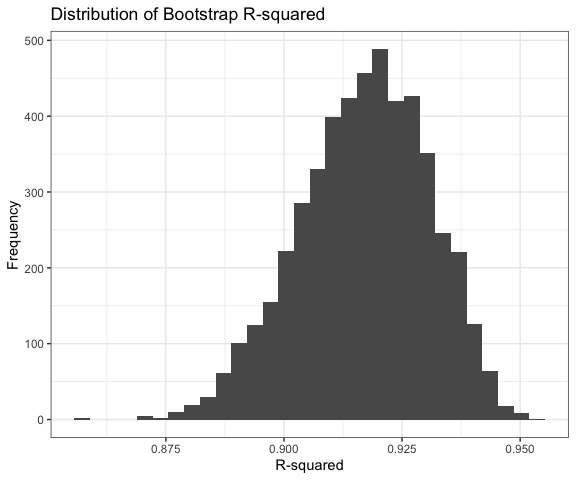
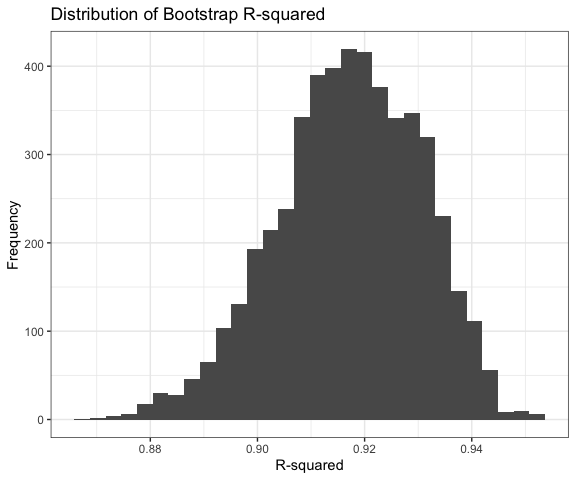
Add comment about model VIF and clean up outputs of stepAIC and kable

diff --git a/p8105_hw6_drl2168.md b/p8105_hw6_drl2168.md
@@ -1,7 +1,7 @@
 Homework 6
 ================
 Derek Lamb
-2023-11-25
+2023-11-27
 
 ### Load packages
 
@@ -217,11 +217,11 @@ df_weather |>
 ```
 
     ## # A tibble: 3 × 5
-    ##   term          estimate std.error statistic   p.value
-    ##   <chr>            <dbl>     <dbl>     <dbl>     <dbl>
-    ## 1 (Intercept) 7.74         0.220    35.1     1.25e-118
-    ## 2 tmin        1.02         0.0155   65.9     1.34e-203
-    ## 3 prcp        0.00000222   0.00201   0.00111 9.99e-  1
+    ##   term        estimate std.error statistic   p.value
+    ##   <chr>          <dbl>     <dbl>     <dbl>     <dbl>
+    ## 1 (Intercept)  8.18      0.226      36.3   1.24e-122
+    ## 2 tmin         1.00      0.0152     66.0   7.06e-204
+    ## 3 prcp        -0.00176   0.00183    -0.965 3.35e-  1
 
 I created the dataframe I needed with 5000 samples of the weather
 dataframe.
@@ -317,10 +317,13 @@ df_bootstrap |>
 
 | Parameter | CI Lower Bound | CI Upper Bound |
 |:----------|---------------:|---------------:|
-| log_beta  |         -8.511 |         -4.593 |
-| r.squared |          0.889 |          0.941 |
+| log_beta  |         -8.725 |          -4.61 |
+| r.squared |          0.889 |           0.94 |
 
 # Problem 3
+
+I will import the birthweight data and convert the numeric indicators to
+character indicators, and then recode them as factor variables.
 
 ``` r
 df_bwt = 
@@ -369,225 +372,63 @@ base_model =
 
 bwt_model = 
   base_model |> 
-  MASS::stepAIC(direction = "both")
+  MASS::stepAIC(direction = "both", trace = 0)
 ```
-
-    ## Start:  AIC=48717.83
-    ## bwt ~ babysex + bhead + blength + delwt + fincome + frace + gaweeks + 
-    ##     malform + menarche + mheight + momage + mrace + parity + 
-    ##     pnumlbw + pnumsga + ppbmi + ppwt + smoken + wtgain
-    ## 
-    ## 
-    ## Step:  AIC=48717.83
-    ## bwt ~ babysex + bhead + blength + delwt + fincome + frace + gaweeks + 
-    ##     malform + menarche + mheight + momage + mrace + parity + 
-    ##     pnumlbw + pnumsga + ppbmi + ppwt + smoken
-    ## 
-    ## 
-    ## Step:  AIC=48717.83
-    ## bwt ~ babysex + bhead + blength + delwt + fincome + frace + gaweeks + 
-    ##     malform + menarche + mheight + momage + mrace + parity + 
-    ##     pnumlbw + ppbmi + ppwt + smoken
-    ## 
-    ## 
-    ## Step:  AIC=48717.83
-    ## bwt ~ babysex + bhead + blength + delwt + fincome + frace + gaweeks + 
-    ##     malform + menarche + mheight + momage + mrace + parity + 
-    ##     ppbmi + ppwt + smoken
-    ## 
-    ##            Df Sum of Sq       RSS   AIC
-    ## - frace     4    124365 320848704 48712
-    ## - malform   1      1419 320725757 48716
-    ## - ppbmi     1      6346 320730684 48716
-    ## - momage    1     28661 320752999 48716
-    ## - mheight   1     66886 320791224 48717
-    ## - menarche  1    111679 320836018 48717
-    ## - ppwt      1    131132 320855470 48718
-    ## <none>                  320724338 48718
-    ## - fincome   1    193454 320917792 48718
-    ## - parity    1    413584 321137922 48721
-    ## - mrace     3    868321 321592659 48724
-    ## - babysex   1    853796 321578134 48727
-    ## - gaweeks   1   4611823 325336161 48778
-    ## - smoken    1   5076393 325800732 48784
-    ## - delwt     1   8008891 328733230 48823
-    ## - blength   1 102050296 422774634 49915
-    ## - bhead     1 106535716 427260054 49961
-    ## 
-    ## Step:  AIC=48711.51
-    ## bwt ~ babysex + bhead + blength + delwt + fincome + gaweeks + 
-    ##     malform + menarche + mheight + momage + mrace + parity + 
-    ##     ppbmi + ppwt + smoken
-    ## 
-    ##            Df Sum of Sq       RSS   AIC
-    ## - malform   1      1447 320850151 48710
-    ## - ppbmi     1      6975 320855679 48710
-    ## - momage    1     28379 320877083 48710
-    ## - mheight   1     69502 320918206 48710
-    ## - menarche  1    115708 320964411 48711
-    ## - ppwt      1    133961 320982665 48711
-    ## <none>                  320848704 48712
-    ## - fincome   1    194405 321043108 48712
-    ## - parity    1    414687 321263390 48715
-    ## + frace     4    124365 320724338 48718
-    ## - babysex   1    852133 321700837 48721
-    ## - gaweeks   1   4625208 325473911 48772
-    ## - smoken    1   5036389 325885093 48777
-    ## - delwt     1   8013099 328861802 48817
-    ## - mrace     3  13540415 334389119 48885
-    ## - blength   1 101995688 422844392 49908
-    ## - bhead     1 106662962 427511666 49956
-    ## 
-    ## Step:  AIC=48709.53
-    ## bwt ~ babysex + bhead + blength + delwt + fincome + gaweeks + 
-    ##     menarche + mheight + momage + mrace + parity + ppbmi + ppwt + 
-    ##     smoken
-    ## 
-    ##            Df Sum of Sq       RSS   AIC
-    ## - ppbmi     1      6928 320857079 48708
-    ## - momage    1     28660 320878811 48708
-    ## - mheight   1     69320 320919470 48708
-    ## - menarche  1    116027 320966177 48709
-    ## - ppwt      1    133894 320984044 48709
-    ## <none>                  320850151 48710
-    ## - fincome   1    193784 321043934 48710
-    ## + malform   1      1447 320848704 48712
-    ## - parity    1    414482 321264633 48713
-    ## + frace     4    124393 320725757 48716
-    ## - babysex   1    851279 321701430 48719
-    ## - gaweeks   1   4624003 325474154 48770
-    ## - smoken    1   5035195 325885346 48775
-    ## - delwt     1   8029079 328879230 48815
-    ## - mrace     3  13553320 334403471 48883
-    ## - blength   1 102009225 422859375 49906
-    ## - bhead     1 106675331 427525481 49954
-    ## 
-    ## Step:  AIC=48707.63
-    ## bwt ~ babysex + bhead + blength + delwt + fincome + gaweeks + 
-    ##     menarche + mheight + momage + mrace + parity + ppwt + smoken
-    ## 
-    ##            Df Sum of Sq       RSS   AIC
-    ## - momage    1     29211 320886290 48706
-    ## - menarche  1    117635 320974714 48707
-    ## <none>                  320857079 48708
-    ## - fincome   1    195199 321052278 48708
-    ## + ppbmi     1      6928 320850151 48710
-    ## + malform   1      1400 320855679 48710
-    ## - parity    1    412984 321270064 48711
-    ## + frace     4    125020 320732060 48714
-    ## - babysex   1    850020 321707099 48717
-    ## - mheight   1   1078673 321935752 48720
-    ## - ppwt      1   2934023 323791103 48745
-    ## - gaweeks   1   4621504 325478583 48768
-    ## - smoken    1   5039368 325896447 48773
-    ## - delwt     1   8024939 328882018 48813
-    ## - mrace     3  13551444 334408523 48881
-    ## - blength   1 102018559 422875638 49904
-    ## - bhead     1 106821342 427678421 49953
-    ## 
-    ## Step:  AIC=48706.02
-    ## bwt ~ babysex + bhead + blength + delwt + fincome + gaweeks + 
-    ##     menarche + mheight + mrace + parity + ppwt + smoken
-    ## 
-    ##            Df Sum of Sq       RSS   AIC
-    ## - menarche  1    100121 320986412 48705
-    ## <none>                  320886290 48706
-    ## - fincome   1    240800 321127090 48707
-    ## + momage    1     29211 320857079 48708
-    ## + ppbmi     1      7479 320878811 48708
-    ## + malform   1      1678 320884612 48708
-    ## - parity    1    431433 321317724 48710
-    ## + frace     4    124743 320761547 48712
-    ## - babysex   1    841278 321727568 48715
-    ## - mheight   1   1076739 321963029 48719
-    ## - ppwt      1   2913653 323799943 48743
-    ## - gaweeks   1   4676469 325562760 48767
-    ## - smoken    1   5045104 325931394 48772
-    ## - delwt     1   8000672 328886962 48811
-    ## - mrace     3  14667730 335554021 48894
-    ## - blength   1 101990556 422876847 49902
-    ## - bhead     1 106864308 427750598 49952
-    ## 
-    ## Step:  AIC=48705.38
-    ## bwt ~ babysex + bhead + blength + delwt + fincome + gaweeks + 
-    ##     mheight + mrace + parity + ppwt + smoken
-    ## 
-    ##            Df Sum of Sq       RSS   AIC
-    ## <none>                  320986412 48705
-    ## + menarche  1    100121 320886290 48706
-    ## - fincome   1    245637 321232048 48707
-    ## + momage    1     11698 320974714 48707
-    ## + ppbmi     1      8823 320977589 48707
-    ## + malform   1      1884 320984528 48707
-    ## - parity    1    422770 321409181 48709
-    ## + frace     4    128726 320857686 48712
-    ## - babysex   1    846134 321832545 48715
-    ## - mheight   1   1012240 321998651 48717
-    ## - ppwt      1   2907049 323893461 48743
-    ## - gaweeks   1   4662501 325648912 48766
-    ## - smoken    1   5073849 326060260 48771
-    ## - delwt     1   8137459 329123871 48812
-    ## - mrace     3  14683609 335670021 48894
-    ## - blength   1 102191779 423178191 49903
-    ## - bhead     1 106779754 427766166 49950
 
 ``` r
 bwt_model |> 
-  anova()
+  anova() |> 
+  knitr::kable(digits = 3)
 ```
 
-    ## Analysis of Variance Table
-    ## 
-    ## Response: bwt
-    ##             Df    Sum Sq   Mean Sq   F value    Pr(>F)    
-    ## babysex      1   8547634   8547634  115.2515 < 2.2e-16 ***
-    ## bhead        1 628838120 628838120 8478.8991 < 2.2e-16 ***
-    ## blength      1 140213755 140213755 1890.5633 < 2.2e-16 ***
-    ## delwt        1   8647158   8647158  116.5934 < 2.2e-16 ***
-    ## fincome      1   4845845   4845845   65.3386 8.111e-16 ***
-    ## gaweeks      1   5936110   5936110   80.0392 < 2.2e-16 ***
-    ## mheight      1    883287    883287   11.9097 0.0005638 ***
-    ## mrace        3  11463486   3821162   51.5224 < 2.2e-16 ***
-    ## parity       1    481225    481225    6.4886 0.0108914 *  
-    ## ppwt         1   2735314   2735314   36.8814 1.363e-09 ***
-    ## smoken       1   5073849   5073849   68.4129 < 2.2e-16 ***
-    ## Residuals 4328 320986412     74165                        
-    ## ---
-    ## Signif. codes:  0 '***' 0.001 '**' 0.01 '*' 0.05 '.' 0.1 ' ' 1
+|           |   Df |       Sum Sq |       Mean Sq |  F value | Pr(\>F) |
+|:----------|-----:|-------------:|--------------:|---------:|--------:|
+| babysex   |    1 |    8547633.5 |    8547633.55 |  115.251 |   0.000 |
+| bhead     |    1 | 628838119\.6 | 628838119\.63 | 8478.899 |   0.000 |
+| blength   |    1 | 140213755\.0 | 140213755\.01 | 1890.563 |   0.000 |
+| delwt     |    1 |    8647157.7 |    8647157.70 |  116.593 |   0.000 |
+| fincome   |    1 |    4845845.1 |    4845845.06 |   65.339 |   0.000 |
+| gaweeks   |    1 |    5936110.4 |    5936110.42 |   80.039 |   0.000 |
+| mheight   |    1 |     883286.8 |     883286.83 |   11.910 |   0.001 |
+| mrace     |    3 |   11463486.3 |    3821162.11 |   51.522 |   0.000 |
+| parity    |    1 |     481225.0 |     481224.98 |    6.489 |   0.011 |
+| ppwt      |    1 |    2735313.7 |    2735313.67 |   36.881 |   0.000 |
+| smoken    |    1 |    5073848.7 |    5073848.67 |   68.413 |   0.000 |
+| Residuals | 4328 | 320986411\.6 |      74165.07 |       NA |      NA |
 
 ``` r
 bwt_model |> 
   tidy() |> 
-  knitr::kable()
+  knitr::kable(digits = 3)
 ```
 
-| term              |      estimate |   std.error |   statistic |   p.value |
-|:------------------|--------------:|------------:|------------:|----------:|
-| (Intercept)       | -6145.1506698 | 141.9496468 | -43.2910599 | 0.0000000 |
-| babysexmale       |   -28.5580171 |   8.4548958 |  -3.3776900 | 0.0007374 |
-| bhead             |   130.7770408 |   3.4465672 |  37.9441440 | 0.0000000 |
-| blength           |    74.9471109 |   2.0190479 |  37.1200270 | 0.0000000 |
-| delwt             |     4.1067316 |   0.3920592 |  10.4747754 | 0.0000000 |
-| fincome           |     0.3180229 |   0.1747477 |   1.8198980 | 0.0688436 |
-| gaweeks           |    11.5924873 |   1.4620657 |   7.9288417 | 0.0000000 |
-| mheight           |     6.5940377 |   1.7848817 |   3.6943835 | 0.0002231 |
-| mraceBlack        |   -63.9057046 |  42.3662612 |  -1.5084103 | 0.1315225 |
-| mracePuerto Rican |   -25.7913672 |  45.3501537 |  -0.5687162 | 0.5695783 |
-| mraceWhite        |    74.8867755 |  42.3146313 |   1.7697608 | 0.0768374 |
-| parity            |    96.3046933 |  40.3362158 |   2.3875490 | 0.0170038 |
-| ppwt              |    -2.6755853 |   0.4273585 |  -6.2607517 | 0.0000000 |
-| smoken            |    -4.8434197 |   0.5855757 |  -8.2712102 | 0.0000000 |
+| term              |  estimate | std.error | statistic | p.value |
+|:------------------|----------:|----------:|----------:|--------:|
+| (Intercept)       | -6145.151 |   141.950 |   -43.291 |   0.000 |
+| babysexmale       |   -28.558 |     8.455 |    -3.378 |   0.001 |
+| bhead             |   130.777 |     3.447 |    37.944 |   0.000 |
+| blength           |    74.947 |     2.019 |    37.120 |   0.000 |
+| delwt             |     4.107 |     0.392 |    10.475 |   0.000 |
+| fincome           |     0.318 |     0.175 |     1.820 |   0.069 |
+| gaweeks           |    11.592 |     1.462 |     7.929 |   0.000 |
+| mheight           |     6.594 |     1.785 |     3.694 |   0.000 |
+| mraceBlack        |   -63.906 |    42.366 |    -1.508 |   0.132 |
+| mracePuerto Rican |   -25.791 |    45.350 |    -0.569 |   0.570 |
+| mraceWhite        |    74.887 |    42.315 |     1.770 |   0.077 |
+| parity            |    96.305 |    40.336 |     2.388 |   0.017 |
+| ppwt              |    -2.676 |     0.427 |    -6.261 |   0.000 |
+| smoken            |    -4.843 |     0.586 |    -8.271 |   0.000 |
 
 ``` r
 bwt_model |> 
   glance() |> 
   select(-c(sigma, logLik, BIC, deviance)) |> 
-  knitr::kable()
+  knitr::kable( digits = 3)
 ```
 
 | r.squared | adj.r.squared | statistic | p.value |  df |      AIC | df.residual | nobs |
 |----------:|--------------:|----------:|--------:|----:|---------:|------------:|-----:|
-| 0.7180997 |     0.7172529 |  848.0727 |       0 |  13 | 61029.44 |        4328 | 4342 |
+|     0.718 |         0.717 |   848.073 |       0 |  13 | 61029.44 |        4328 | 4342 |
 
 I will look at a plot of residuals vs predicted values to assess model
 performance.
@@ -643,10 +484,18 @@ df_cv =
   )
 ```
 
+    ## Warning: There were 46 warnings in `mutate()`.
+    ## The first warning was:
+    ## ℹ In argument: `rmse_stepwise = map2_dbl(...)`.
+    ## Caused by warning in `predict.lm()`:
+    ## ! prediction from rank-deficient fit; attr(*, "non-estim") has doubtful cases
+    ## ℹ Run `dplyr::last_dplyr_warnings()` to see the 45 remaining warnings.
+
 I think the warning given here is due to collinearity between some terms
-(in particular `ppwt` with `delwt` and `ppbmi`. I do not know whether
-these terms capture variation that is particularly relevant to the
-prediction of birthweight, so I will keep them in.
+(in particular `ppwt` with `delwt` and `ppbmi`. I checked the VIF for
+the model, and the highest values where `delwt` at 4.44 and `ppwt` at
+4.35. These are large but not above 5, so not too concerning, therefore
+I will keep all the variables determined by this stepwise approach in.
 
 Now I will plot the RMSEs from these models to compare their performance
 
